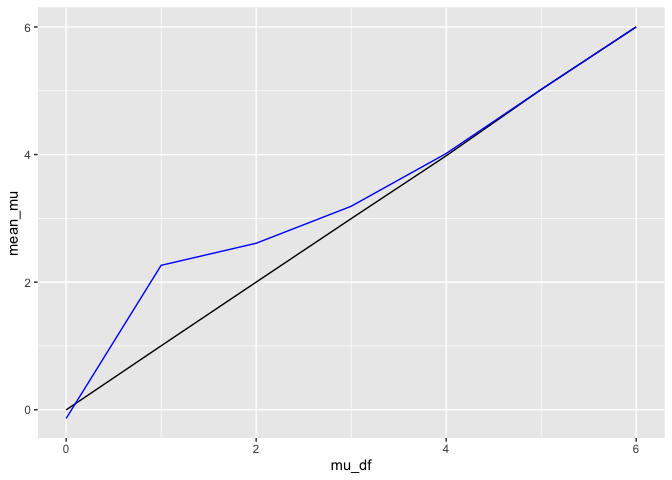
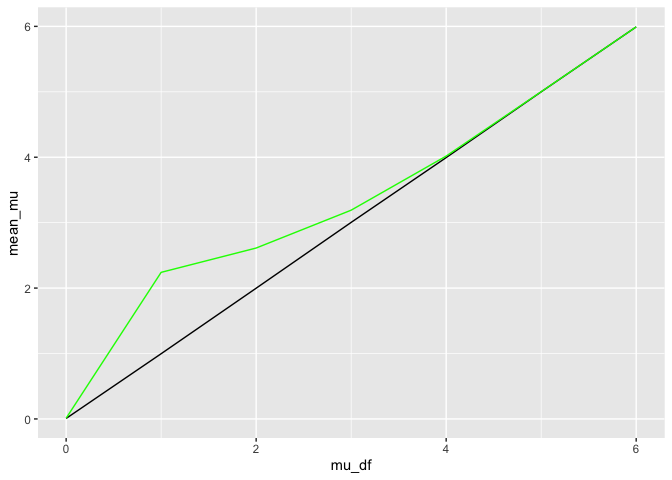
final touches

diff --git a/p8105_hw_5_tem2171.md b/p8105_hw_5_tem2171.md
@@ -54,8 +54,7 @@ simulation_t_test = function(mu) {
 output = simulation_data |>
   t.test() |>
   broom::tidy() |>
-  select(estimate, p.value) |>
-  rename(mu_hat=estimate, pval=p.value)
+  select(estimate, p.value)
 
 }
 ```
@@ -63,7 +62,7 @@ output = simulation_data |>
 ``` r
 simulation_results = expand_grid(
   mu_df = c(0, 1, 2, 3, 4, 5, 6),
-  iter = 1:5000
+  iter = 1:num_simulations
 ) |>
   mutate(
     estimate = map(mu_df, simulation_t_test)
@@ -79,8 +78,7 @@ Describe the association between effect size and power
 simulation_results |>
   group_by(mu_df) |>
   summarize(
-    reject = sum(pval<alpha),
-    proportion = reject/num_simulations
+    proportion = sum(p.value<alpha)/num_simulations
   ) |>
   ggplot(aes(x=mu_df, y=proportion)) + geom_line()
 ```
@@ -100,19 +98,19 @@ rejected on the y axis and the true value of μ on the x axis:
 true_df = simulation_results |>
   group_by(mu_df) |>
   summarize(
-    mean_mu = mean(mu_hat)
+    mean_mu = mean(estimate)
   )
 
 rej_df = simulation_results |>
-  filter(pval < 0.05) |>
+  filter(p.value < alpha) |>
   group_by(mu_df) |>
   summarize(
-    mean_mu = mean(mu_hat)
+    mean_mu = mean(estimate)
   )
 
 ggplot(true_df, aes(x=mu_df, y=mean_mu)) + 
   geom_line() +
-  geom_line(data=rej_df, color="blue")
+  geom_line(data=rej_df, color="green")
 ```
 
 ![](p8105_hw_5_tem2171_files/figure-gfm/unnamed-chunk-6-1.png)<!-- -->
